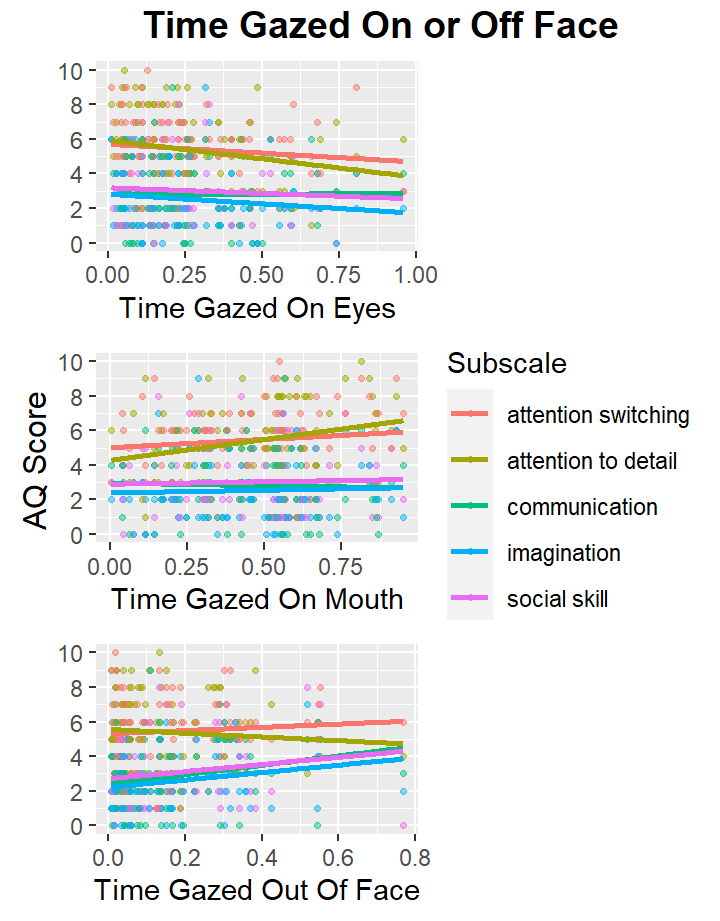
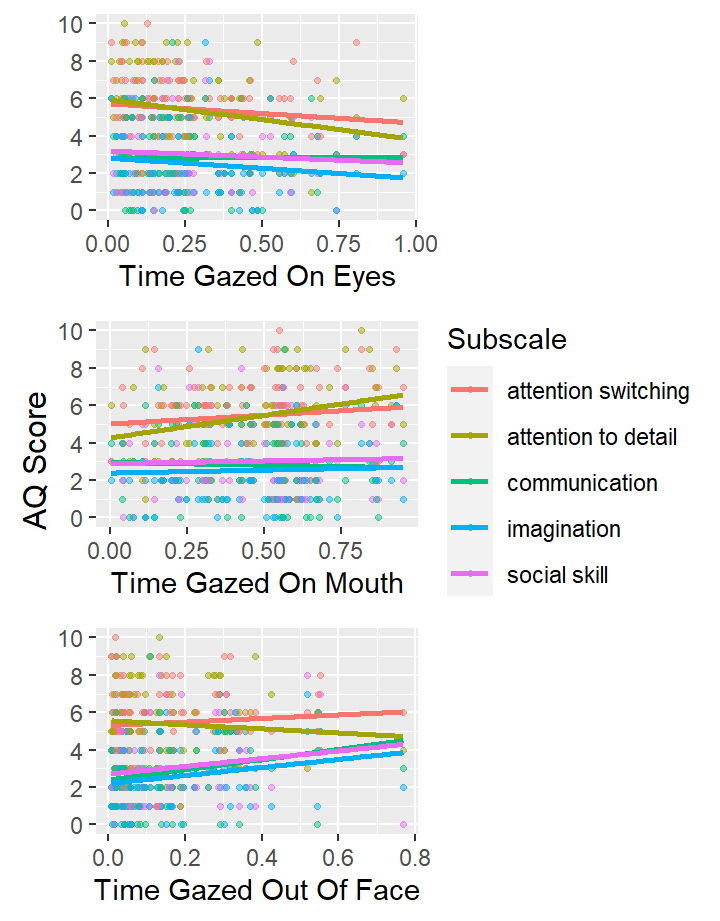
centering References; fig.height

diff --git a/docs/index.html b/docs/index.html
@@ -1989,9 +1989,9 @@ was talking. <br></p>
 or not?]</p>
 <div id="column" class="section level2">
 <h2>Column</h2>
-<div id="table" class="section level3">
-<h3>Table</h3>
-<div class="knitr-options" data-fig-width="576" data-fig-height="2400">
+<div id="time-gazed-on-or-off-face" class="section level3">
+<h3>Time Gazed On or Off Face</h3>
+<div class="knitr-options" data-fig-width="576" data-fig-height="1728">
 
 </div>
 <p><img src="index_files/figure-html/unnamed-chunk-6-1.png" width="576" data-figure-id=fig3 style="display: block; margin: auto;" /></p>
@@ -2257,9 +2257,9 @@ Consideration 2: differentiate and include plots for the time spent on eyes and 
 Column 
 ---------------------------------------------------------------
 
-### Table
+### Time Gazed On or Off Face
 
-```{r, echo=FALSE, fig.height=25}
+```{r, echo=FALSE, fig.height=18}
 # OFF
 exp.f &lt;- exp[c(13, 18)]
 exp.f &lt;- aggregate(exp.f$PC_Off, list(exp.f$Code), FUN=mean)
@@ -2333,9 +2333,7 @@ plots &lt;- ggarrange(plot.e, plot.m, plot.f,
     scale_y_continuous(breaks=c(0,2,4,6,8,10)) 
   
 
-annotate_figure(plots, top = text_grob("Time Gazed On or Off Face",
-               color = "black", face = "bold", size = 14),
-               left = text_grob("AQ Score", rot = 90, vjust = 1))
+annotate_figure(plots, left = text_grob("AQ Score", rot = 90, vjust = 1))
 
 ```
 
